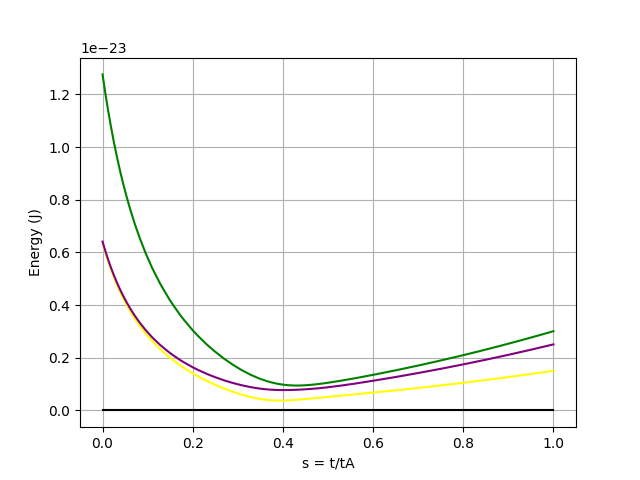
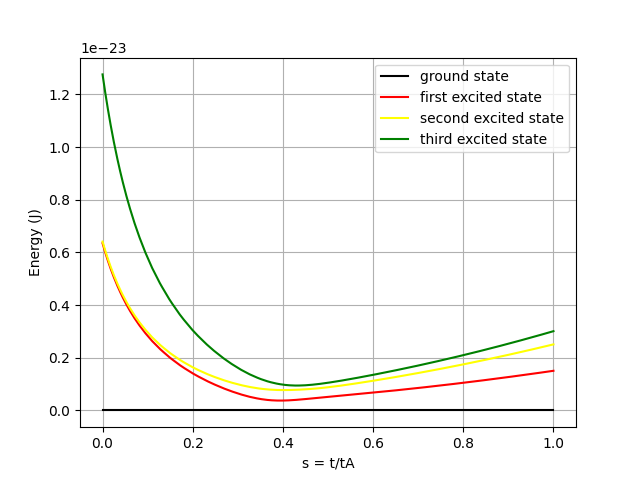
New image (legend)

diff --git a/two_qubit.py b/two_qubit.py
@@ -19,8 +19,8 @@ s3_s3 = np.kron(s3, s3)
 
 # objective function parameters
 
-biases = np.array([0.1  , 0.8])
-coupling_strengths = 0.5
+biases = np.array([0.1  , 0.2])
+coupling_strengths = -0.4
 
 # QPU anneal parameters
 
@@ -92,10 +92,14 @@ print('The band gap is', minimum_gap, 'GHz and occurs when s =', t_min)
 # drawing
 
 plt.grid()
-plt.plot(s, e0, c = 'black')
-plt.plot(s, e1, c = 'yellow')
-plt.plot(s, e2, c = 'purple')
-plt.plot(s, e3, c = 'green')
+e_0, = plt.plot(s, e0, c = 'black', label='ground state')
+e_1, = plt.plot(s, e1, c = 'red', label='first excited state')
+e_2, = plt.plot(s, e2, c = 'yellow', label='second excited state')
+e_3, = plt.plot(s, e3, c = 'green', label='third excited state')
+
 plt.xlabel("s = t/tA")
 plt.ylabel("Energy (J)")
+
+plt.legend(handles = [e_0, e_1, e_2, e_3], loc = 'upper right')
+
 plt.show()
